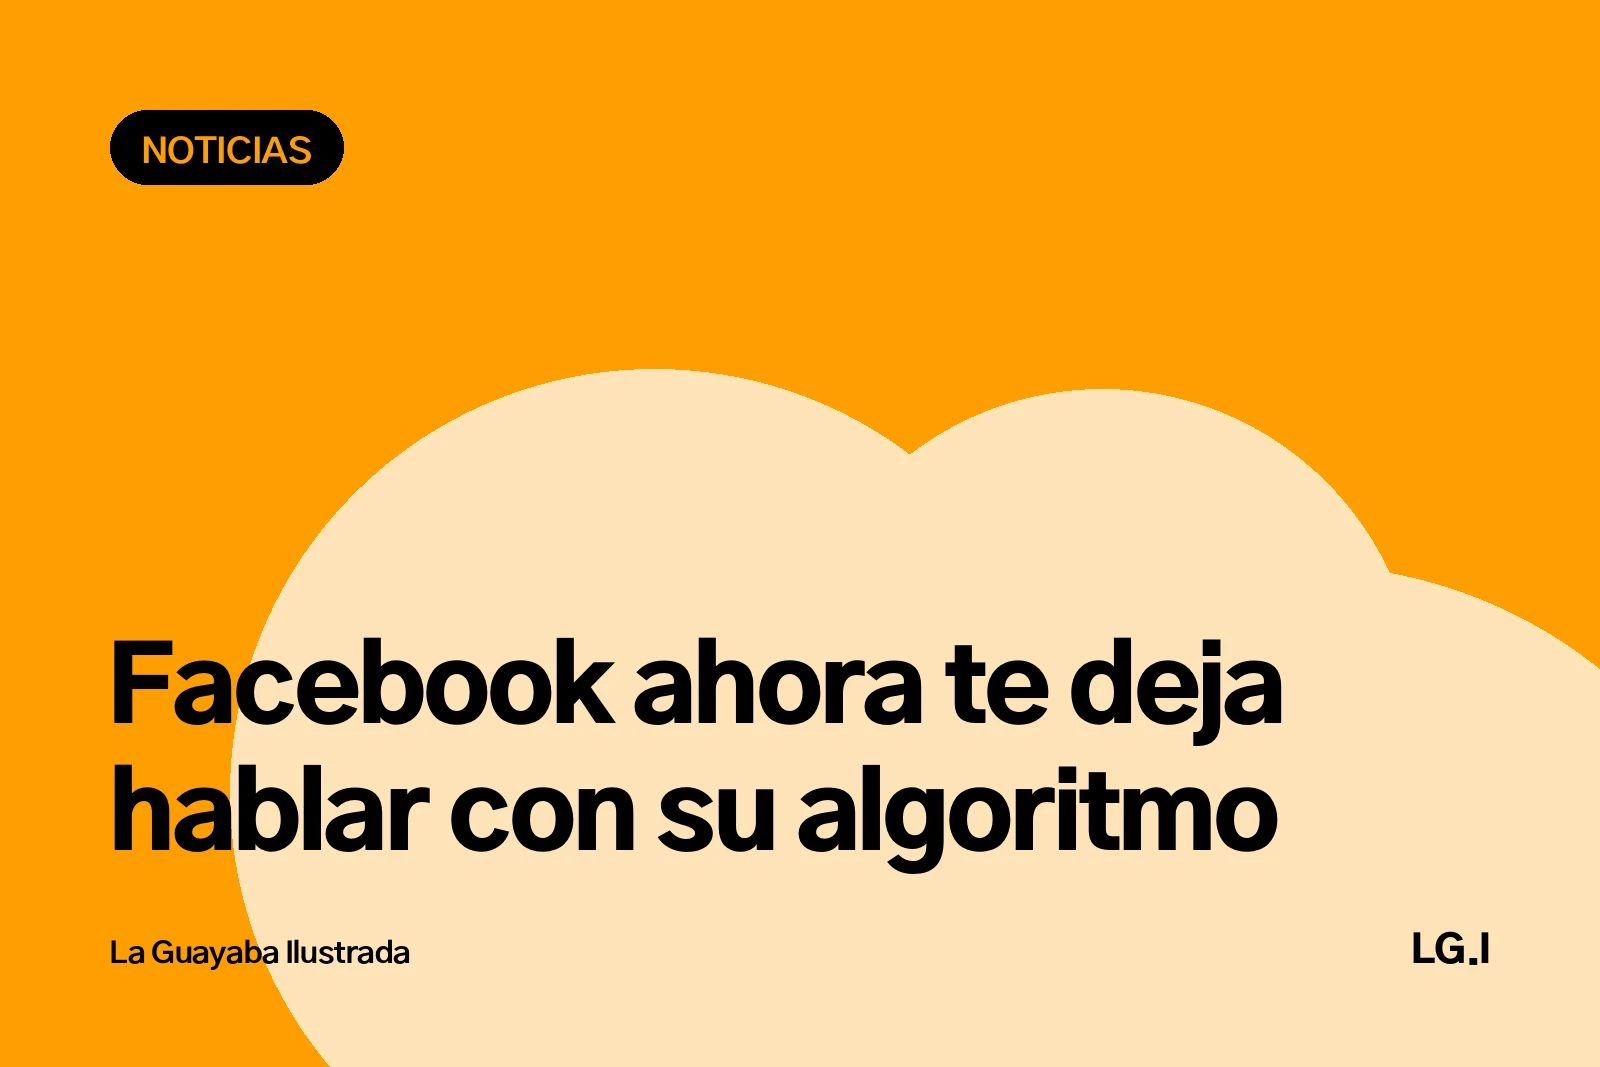
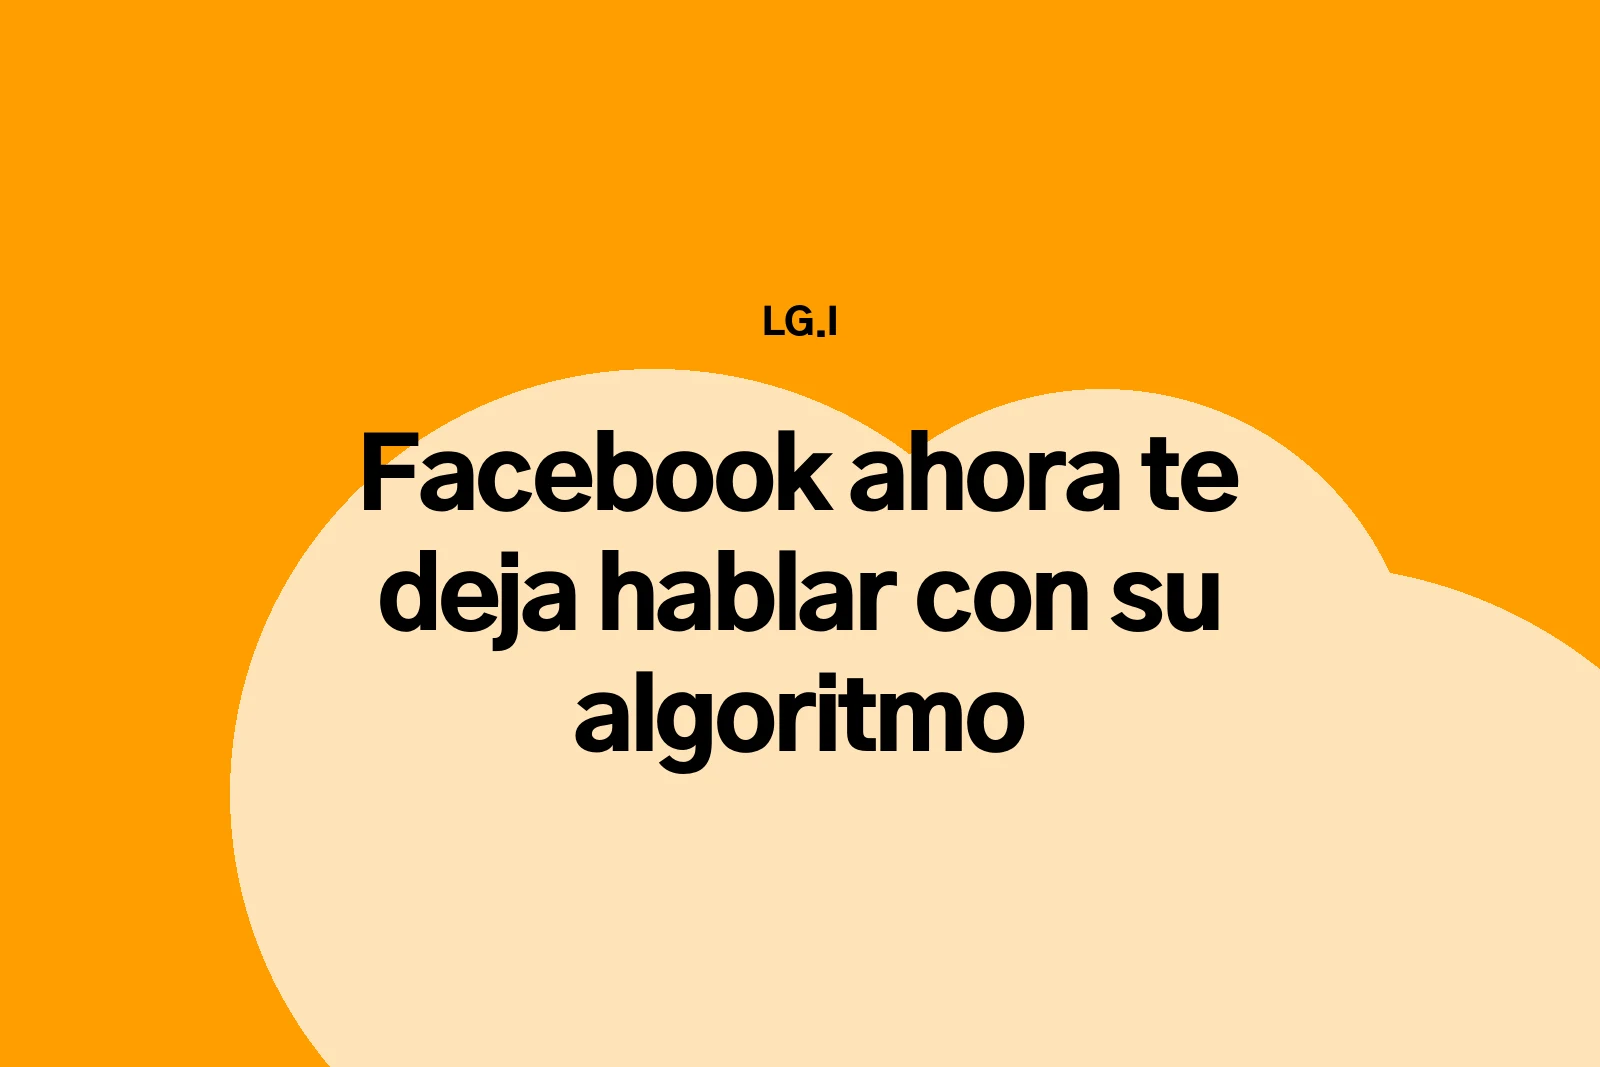
Portadas de notas: texto centrado en zona segura y sin etiqueta repetida
Claude-Session: https://claude.ai/code/session_01CMfY411TaWJhc4sofPayks

diff --git a/posts.js b/posts.js
@@ -5,7 +5,7 @@
    img: imagen de portada dentro de assets/
    b: párrafos de la nota completa */
 window.POSTS=[
-  {"id": "facebook-algoritmo-con-tus-palabras", "k": "Noticias", "c": "#FF9D00", "d": "14 oct 2026", "img": "assets/work/nota-facebook-algoritmo-con-tus-palabras.webp", "alt": "Portada naranja de La Guayaba Ilustrada con el titular sobre el nuevo control del algoritmo de Facebook", "cr": "", "t": "Facebook ya te deja decirle a su algoritmo, con tus palabras, qué quieres ver", "x": "La nueva versión de Your Algorithm usa IA para ajustar el Feed y los Reels según lo que el usuario le escribe.", "b": ["Meta anunció esta semana una actualización de Your Algorithm en Facebook, una herramienta que permite a cada usuario escribir en lenguaje natural qué temas quiere ver más y cuáles menos en su Feed y en Reels. Según la compañía, los cambios se aplican al momento y las recomendaciones se ajustan en tiempo real.", "Se entra desde el menú de tres puntos de cualquier publicación. Ahí aparece una lista con los intereses que Facebook cree que tienes, que puedes editar, y otra con los temas que prefieres no ver. Además, cuando marcas una publicación como Me interesa o No me interesa, la plataforma puede hacerte preguntas para que expliques qué te gustó o qué no.", "Meta explica que detrás hay modelos de lenguaje capaces de entender el contexto y la intención de lo que escribe el usuario, y no solo sus clics. La empresa describe la función como un espacio para decirle exactamente qué te interesa. Hasta ahora no ha detallado en qué países estará disponible primero.", "El movimiento sigue una tendencia clara: Instagram ya tiene su propio Your Algorithm, Threads ofrece una herramienta parecida y YouTube y X también han probado asistentes para ajustar recomendaciones. Medios especializados como Social Media Today señalan que la gran duda es cuántas personas realmente usarán estos controles, porque la mayoría rara vez cambia su configuración.", "Para tu marca: si la gente puede pedirle a Facebook que le muestre menos de ciertos temas, el contenido genérico o demasiado vendedor corre más riesgo de quedar fuera. Define bien de qué habla tu negocio, publica con constancia sobre esos temas y cuida que cada pieza aporte algo útil o entretenido. Lo que la gente elige ver es más valioso que lo que el algoritmo le empuja."], "src": "https://www.socialmediatoday.com/news/facebook-adds-plain-language-algorithm-controls/832910/", "sn": "Con información de Social Media Today"},
+  {"id": "facebook-algoritmo-con-tus-palabras", "k": "Noticias", "c": "#FF9D00", "d": "14 oct 2026", "img": "assets/work/nota-facebook-algoritmo-con-tus-palabras.webp?v=2", "alt": "Portada naranja de La Guayaba Ilustrada con el titular sobre el nuevo control del algoritmo de Facebook", "cr": "", "t": "Facebook ya te deja decirle a su algoritmo, con tus palabras, qué quieres ver", "x": "La nueva versión de Your Algorithm usa IA para ajustar el Feed y los Reels según lo que el usuario le escribe.", "b": ["Meta anunció esta semana una actualización de Your Algorithm en Facebook, una herramienta que permite a cada usuario escribir en lenguaje natural qué temas quiere ver más y cuáles menos en su Feed y en Reels. Según la compañía, los cambios se aplican al momento y las recomendaciones se ajustan en tiempo real.", "Se entra desde el menú de tres puntos de cualquier publicación. Ahí aparece una lista con los intereses que Facebook cree que tienes, que puedes editar, y otra con los temas que prefieres no ver. Además, cuando marcas una publicación como Me interesa o No me interesa, la plataforma puede hacerte preguntas para que expliques qué te gustó o qué no.", "Meta explica que detrás hay modelos de lenguaje capaces de entender el contexto y la intención de lo que escribe el usuario, y no solo sus clics. La empresa describe la función como un espacio para decirle exactamente qué te interesa. Hasta ahora no ha detallado en qué países estará disponible primero.", "El movimiento sigue una tendencia clara: Instagram ya tiene su propio Your Algorithm, Threads ofrece una herramienta parecida y YouTube y X también han probado asistentes para ajustar recomendaciones. Medios especializados como Social Media Today señalan que la gran duda es cuántas personas realmente usarán estos controles, porque la mayoría rara vez cambia su configuración.", "Para tu marca: si la gente puede pedirle a Facebook que le muestre menos de ciertos temas, el contenido genérico o demasiado vendedor corre más riesgo de quedar fuera. Define bien de qué habla tu negocio, publica con constancia sobre esos temas y cuida que cada pieza aporte algo útil o entretenido. Lo que la gente elige ver es más valioso que lo que el algoritmo le empuja."], "src": "https://www.socialmediatoday.com/news/facebook-adds-plain-language-algorithm-controls/832910/", "sn": "Con información de Social Media Today"},
   {id:'atencion-nueva-metrica',k:'Tendencias',c:'#FF3674',d:'13 oct 2026',img:'assets/work/nota-atencion.webp',alt:'Persona revisando su celular',cr:'Foto: Unsplash',
    t:'La atención es la nueva métrica de tu marca',x:'Ya no basta con que te vean. Lo que cuenta es que te recuerden.',
    b:['Durante años las marcas midieron su éxito por cuántas veces aparecían en pantalla. Hoy el público ve cientos de anuncios al día y la mayoría pasa sin dejar huella.',

diff --git a/scripts/portada.py b/scripts/portada.py
@@ -67,27 +67,25 @@ def main(nid, cat, title):
         r = rnd.randint(260, 520)
         x, y = rnd.randint(-150, W), rnd.randint(-150, H)
         d.ellipse((x - r, y - r, x + r, y + r), fill=soft)
-    pad = 110
-    # etiqueta de categoría
-    fc = font('lg-bold.woff2', 40)
-    tw = d.textlength(cat.upper(), font=fc)
-    d.rounded_rectangle((pad, pad, pad + tw + 64, pad + 74), radius=37, fill=ink)
-    d.text((pad + 32, pad + 39), cat.upper(), font=fc, fill=bg, anchor='lm')
-    # título que quepa en el área
-    for size in range(124, 60, -4):
+    # Todo el texto va centrado dentro de una zona segura (60% del ancho, 64% del alto)
+    # para que no se corte en ningún recorte del sitio (4:3, 16:9 o casi cuadrado).
+    safe_w = int(W * 0.60)
+    safe_h = int(H * 0.64)
+    for size in range(116, 48, -4):
         ft = font('lg-black.woff2', size)
-        lines = wrap(d, title, ft, W - pad * 2)
-        lh = size * 1.02
-        if len(lines) * lh <= H - pad * 2 - 200:
+        lines = wrap(d, title, ft, safe_w)
+        lh = size * 1.04
+        if len(lines) <= 4 and len(lines) * lh + 110 <= safe_h:
             break
-    y = H - pad - 90 - len(lines) * lh
+    block = len(lines) * lh + 110
+    y = (H - block) / 2
+    fl = font('lg-black.woff2', 44)
+    d.text((W / 2, y + 22), 'LG.I', font=fl, fill=ink, anchor='mm')
+    y += 110
     for ln in lines:
-        draw_line(d, (pad, y), ln, ft, ink, -size * 0.012)
+        lw = line_w(d, ln, ft, -size * 0.012)
+        draw_line(d, ((W - lw) / 2, y), ln, ft, ink, -size * 0.012)
         y += lh
-    # firma
-    fs = font('lg-bold.woff2', 34)
-    d.text((pad, H - pad + 6), 'La Guayaba Ilustrada', font=fs, fill=ink, anchor='ls')
-    d.text((W - pad, H - pad + 6), 'LG.I', font=font('lg-black.woff2', 46), fill=ink, anchor='rs')
     out = os.path.join(R, 'assets', 'work', f'nota-{nid}.webp')
     im.save(out, 'WEBP', quality=88)
     print(out)
